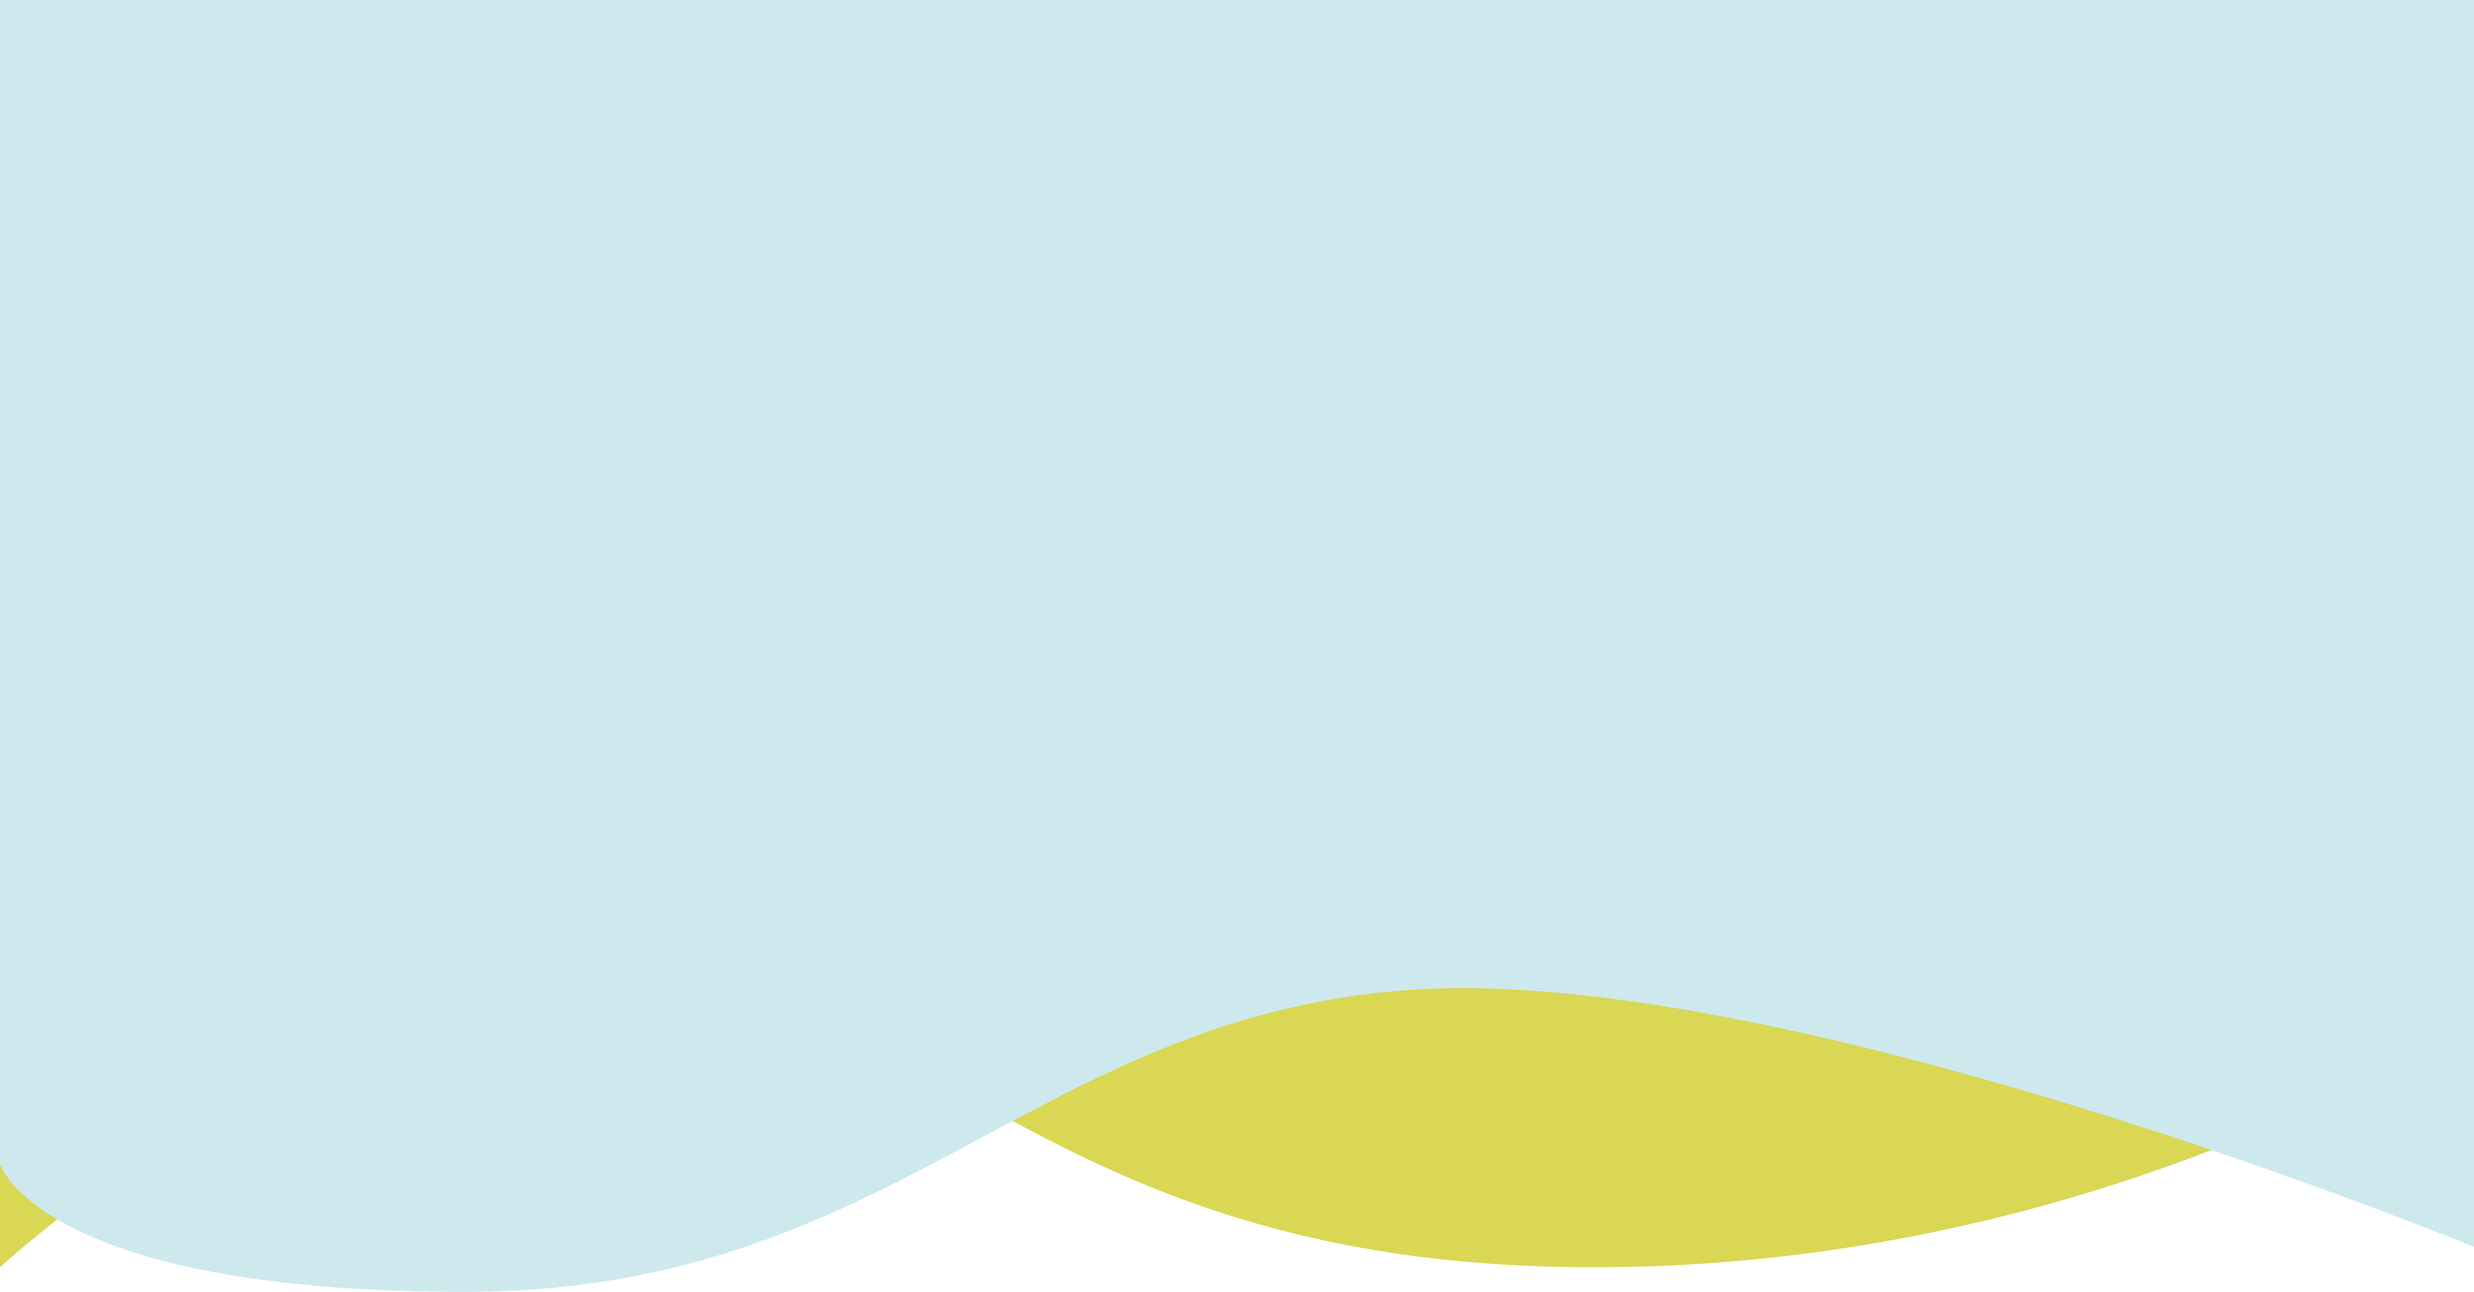
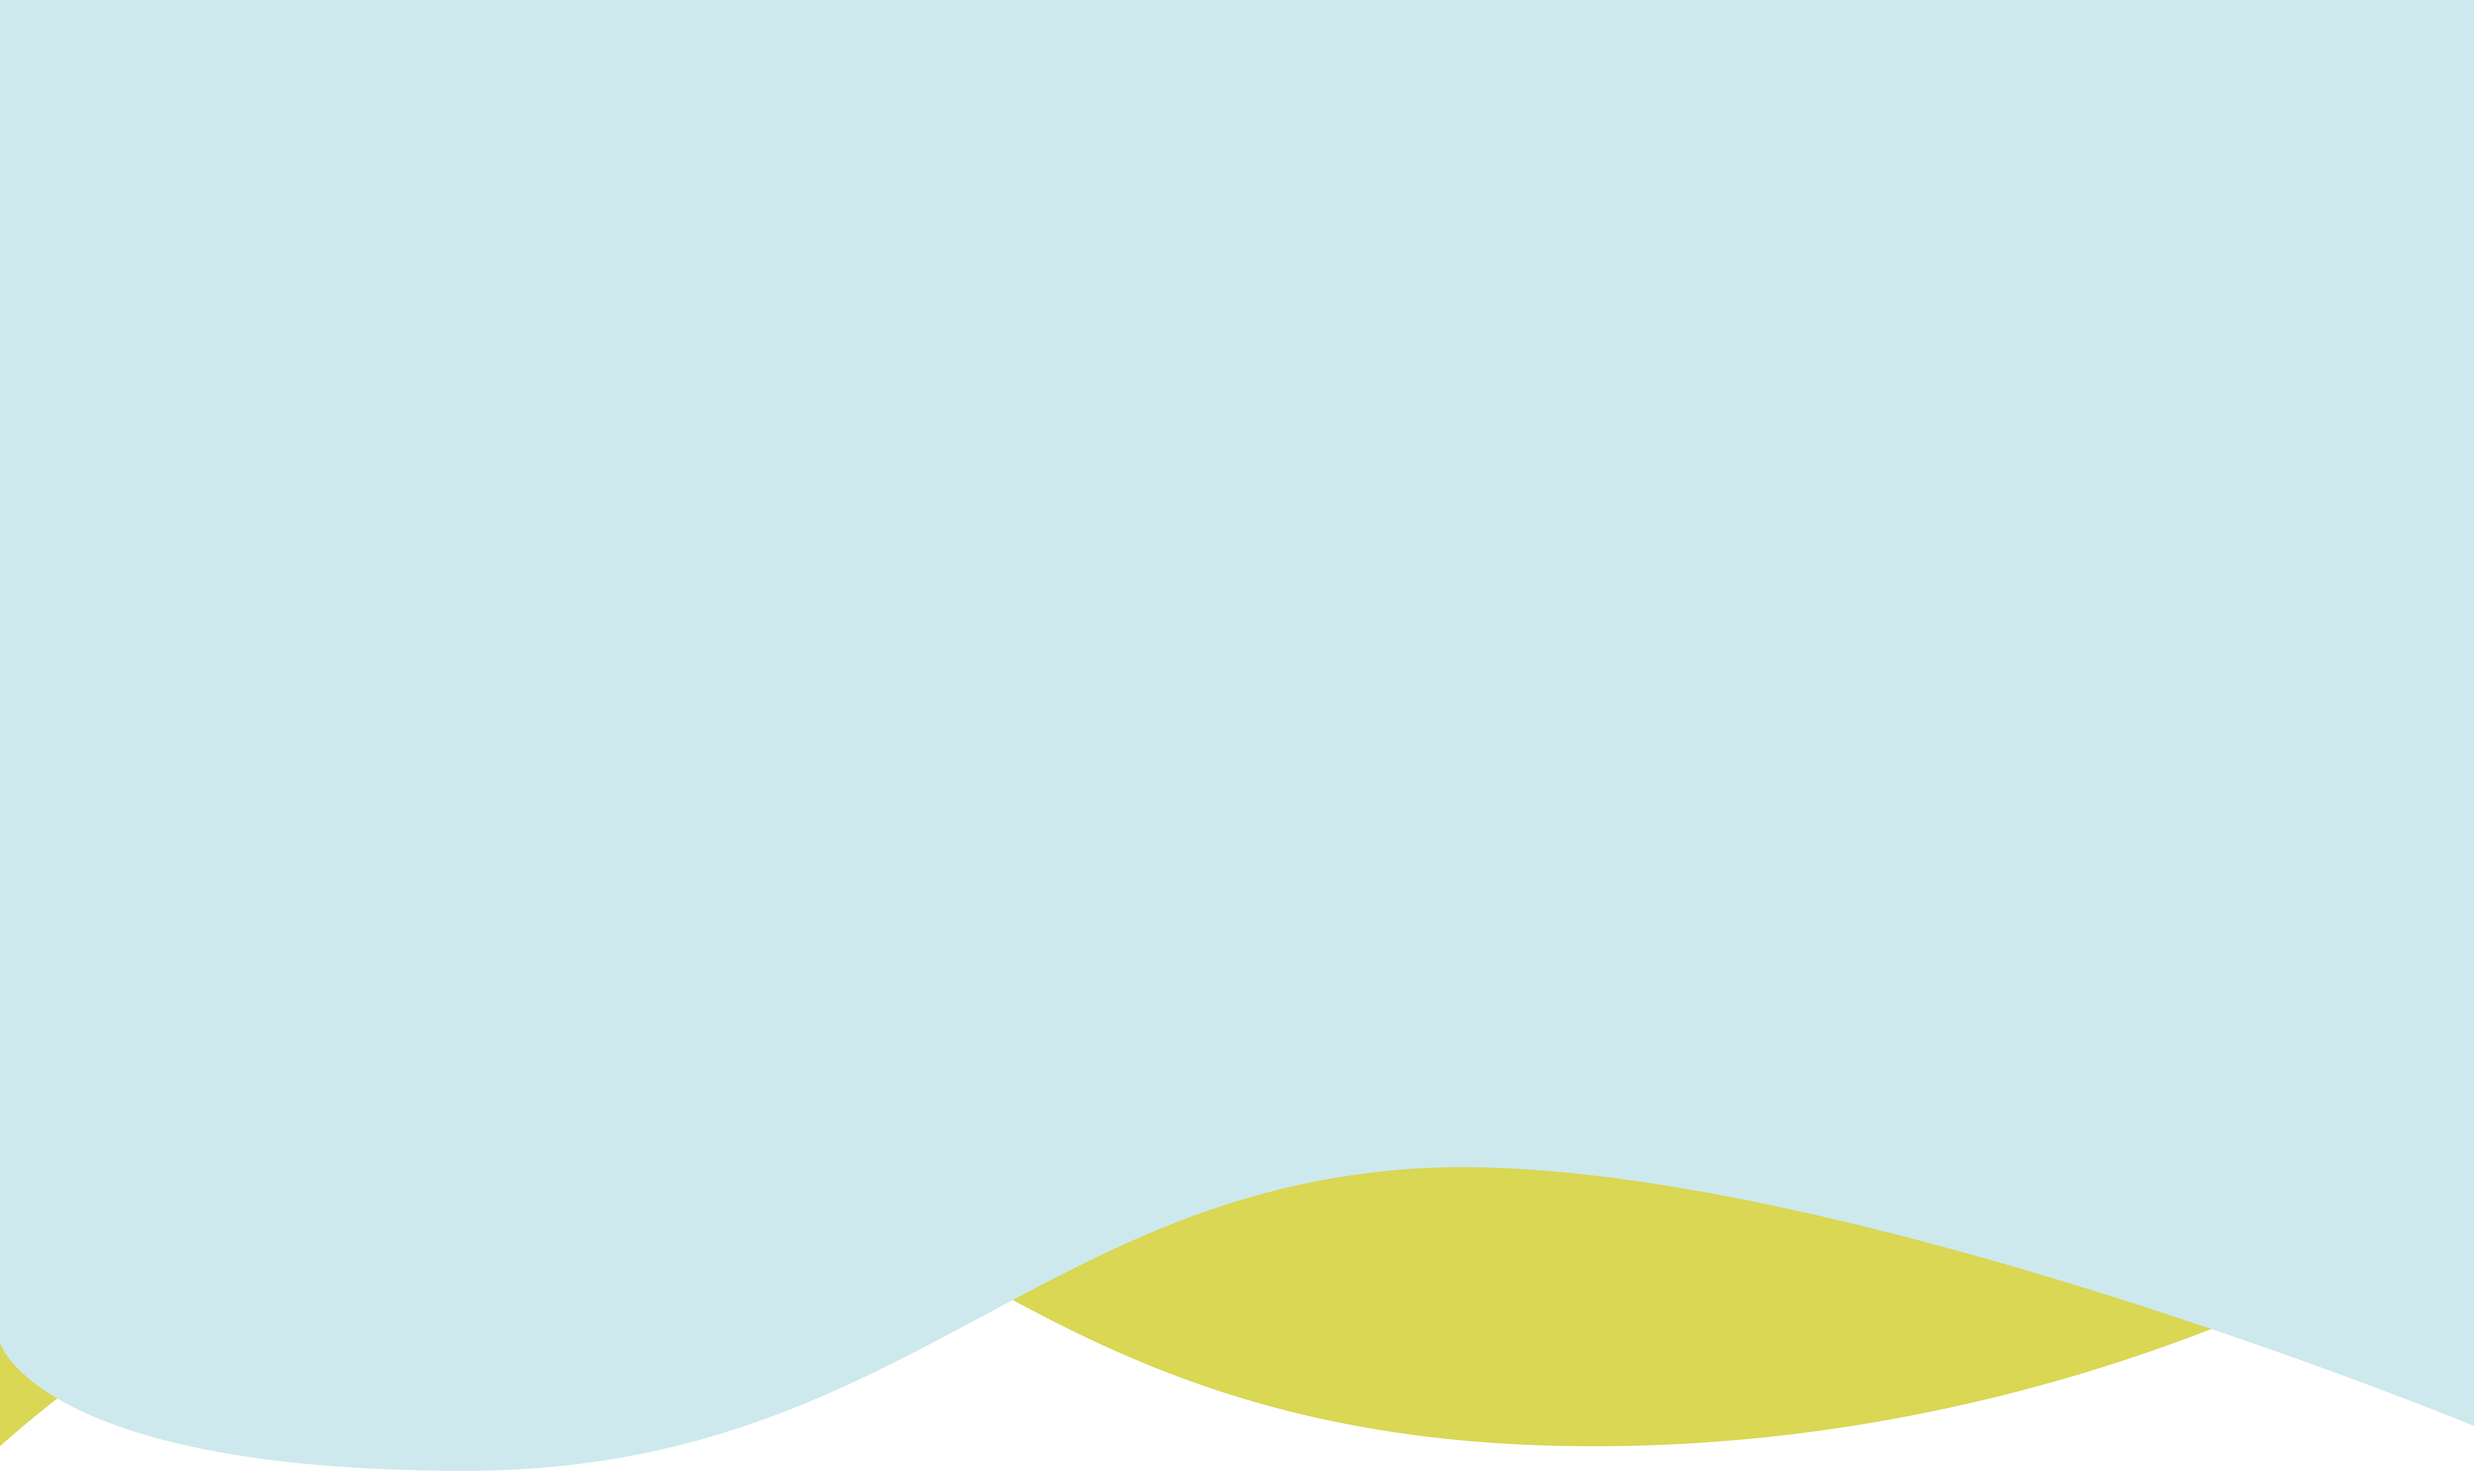
firstviewのbackground-imageの設定

diff --git a/css/stylesheet.css b/css/stylesheet.css
@@ -135,7 +135,8 @@ h1, h2, h3, h4, h5, h6{
     align-items: center;
     align-self: center;
     background-image: url(../img/background-top.png);
-    background-size: contain;
+    background-size: cover;
+    width: 100vw;
     background-repeat: no-repeat;
     height: 100vh;
 }
